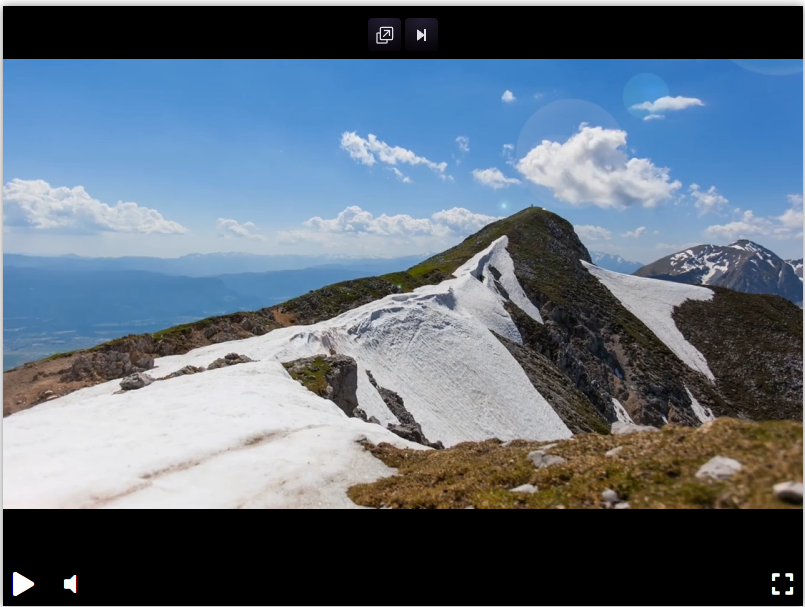
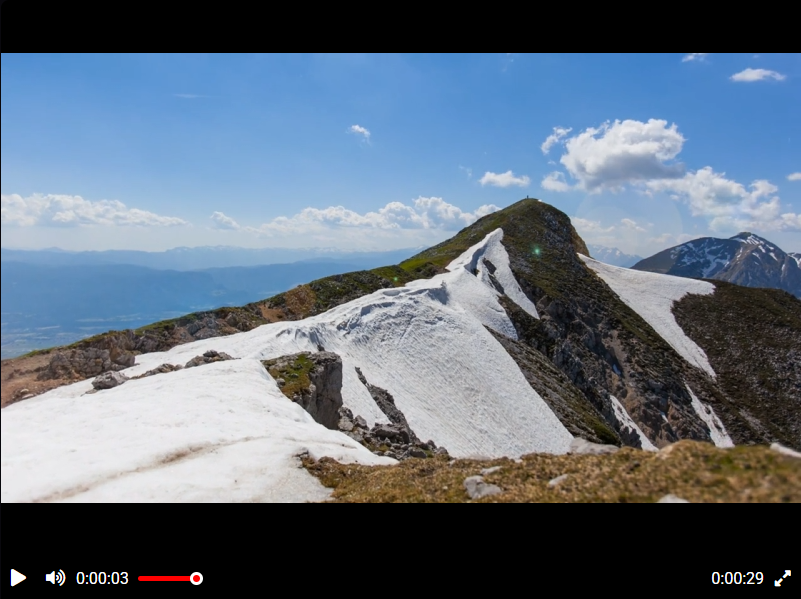
fix: remove margin-left bug, move styles to player.css, refactor progress bar

diff --git a/index.html b/index.html
@@ -3,195 +3,51 @@
 <head>
     <meta charset="UTF-8">
     <title>Видео плеер</title>
-
     <link rel="stylesheet" href="https://use.fontawesome.com/releases/v5.15.4/css/all.css">
-
     <link rel="icon" href="favicon.ico">
     <link rel="preconnect" href="https://fonts.googleapis.com">
     <link rel="preconnect" href="https://fonts.gstatic.com" crossorigin>
-
     <link href="https://fonts.googleapis.com/css2?family=Roboto:wght@400&display=swap" rel="stylesheet">
-
-<style>
-body {
-    margin: 0;
-}
-
-.player-container {
-    width: 800px;
-    height: 600px;
-
-    display: flex;
-    flex-direction: column;
-
-    box-shadow: 0 0 10px rgba(0, 0, 0, 0.5);
-}
-
-.video-container {
-    flex-grow: 1;
-}
-
-.controls {
-    background: black;
-
-    flex-shrink: 0;
-
-    display: flex;
-    align-items: center;
-
-    height: 44px;
-
-    padding-left: 0px;
-    padding-right: 0px;
-}
-
-.player-button {
-    border: none;
-    cursor: pointer;
-
-    background-color: transparent;
-
-    width: 35px;
-    height: 32px;
-
-    padding: 0;
-}
-
-.player-icon {
-    color: white;
-
-    font-size: 17px;
-}
-
-.spacer {
-    flex-grow: 1;
-}
-
-.js-mute-button {
-    margin-left: 2px;
-}
-
-.js-fullscreen-button {
-    margin-right: 1px;
-}
-
-.js-fullscreen-button .player-icon {
-    font-size: 18px;
-    position: relative;
-    top: 0px;
-}
-
-.playback-time {
-    color: white;
-
-    font-family: 'Roboto', sans-serif;
-    font-weight: 400;
-    font-size: 16px;
-}
-
-.js-progress {
-    position: relative;
-    flex-grow: 596;
-    height: 5px;
-    background: black;
-
-    border-radius: 2px;
-
-    margin: 0 9px;
-    display: flex;
-    align-items: center;
-}
-
-.js-progress-slider {
-    height: 100%;
-    width: 0%;
-
-    background: red;
-
-    border-radius: 10px;
-}
-
-.js-current-time {
-    margin-left: 3px;
-}
-
-.dot {
-    height: 13px;
-    width: 13px;
-
-    background-color: red;
-    border-radius: 50%;
-    border: 3px solid #ffffff;
-
-    box-sizing: border-box;
-
-    position: relative;
-
-    margin-left: -6px;
-
-    transform: translateY(0);
-
-    top: 0;
-    opacity: 0;
-    transition-property: opacity;
-    transition-duration: 300ms;
-    transition-timing-function: ease-in-out;
-}
-
-.controls:hover .dot {
-    opacity: 1;
-}
-</style>
+    <link rel="stylesheet" href="player.css">
 </head>
 <body>
-
 <div id="player" class="player-container">
     <div class="js-video-container video-container"></div>
+    <div class="controls">
+        <button class="js-play-button player-button">
+            <i class="fas fa-play"></i>
+        </button>
+        <button class="js-pause-button player-button" hidden>
+            <i class="fas fa-pause"></i>
+        </button>
+        <button class="js-volume-button player-button" hidden>
+            <i class="fas fa-volume-off"></i>
+        </button>
+        <button class="js-mute-button player-button">
+            <i class="fas fa-volume-up"></i>
+        </button>
 
-<div class="controls">
-    <button class="js-play-button player-button">
-        <i class="fas fa-play player-icon"></i>
-    </button>
+        <div class="video-player__progress-bar">
+            <div class="playback-time js-current-time">0:00</div>
+            <div class="js-progress">
+                <div class="js-progress-slider"></div>
+                <span class="dot"></span>
+            </div>
+            <div class="playback-time js-duration">0:00</div>
+        </div>
 
-    <button class="js-pause-button player-button" hidden>
-        <i class="fas fa-pause player-icon"></i>
-    </button>
-
-    <button class="js-volume-button player-button" hidden>
-        <i class="fas fa-volume-off player-icon"></i>
-    </button>
-
-    <button class="js-mute-button player-button">
-        <i class="fas fa-volume-up player-icon"></i>
-    </button>
-
-    <div class="playback-time js-current-time">0:00</div>
-
-    <div class="js-progress">
-        <div class="js-progress-slider"></div>
-        <span class="dot"></span>
+        <button class="js-fullscreen-button player-button">
+            <i class="fas fa-expand-alt"></i>
+        </button>
     </div>
-
-    <div class="playback-time js-duration">0:00</div>
-
-    <div class="spacer"></div>
-
-    <button class="js-fullscreen-button player-button">
-        <i class="fas fa-expand-alt player-icon"></i>
-    </button>
-
 </div>
-</div>
-
 <script src="https://code.jquery.com/jquery-3.4.1.min.js"></script>
 <script src="https://unpkg.com/playable@2.10.3/dist/statics/playable.bundle.min.js"></script>
 <script src="player.js"></script>
-
 <script>
     createPlayer({
         elementId: 'player'
     });
 </script>
-
 </body>
 </html>

diff --git a/player.css b/player.css
@@ -1,0 +1,94 @@
+body {
+    margin: 0;
+}
+
+.player-container {
+    width: 800px;
+    height: 600px;
+    display: flex;
+    flex-direction: column;
+    box-shadow: 0 0 10px rgba(0, 0, 0, 0.5);
+}
+
+.video-container {
+    flex-grow: 1;
+}
+
+.controls {
+    background: black;
+    flex-shrink: 0;
+    display: flex;
+    align-items: center;
+    height: 44px;
+    padding-left: 0;
+    padding-right: 0;
+    column-gap: 5px;
+}
+
+.player-button {
+    border: none;
+    cursor: pointer;
+    background-color: transparent;
+    width: 35px;
+    height: 32px;
+    padding: 0;
+    color: white;
+    font-size: 17px;
+}
+
+
+.js-fullscreen-button {
+    margin-right: 1px;
+    font-size: 18px;
+}
+
+.video-player__progress-bar {
+    flex-grow: 1;
+    display: flex;
+    align-items: center;
+    column-gap: 9px;
+}
+
+.playback-time {
+    color: white;
+    font-family: 'Roboto', sans-serif;
+    font-weight: 400;
+    font-size: 16px;
+}
+
+.js-progress {
+    position: relative;
+    flex-grow: 1;
+    height: 5px;
+    background: black;
+    border-radius: 2px;
+    display: flex;
+    align-items: center;
+}
+
+.js-progress-slider {
+    height: 100%;
+    width: 0%;
+    background: red;
+    border-radius: 10px;
+}
+
+.dot {
+    height: 13px;
+    width: 13px;
+    background-color: red;
+    border-radius: 50%;
+    border: 3px solid #ffffff;
+    box-sizing: border-box;
+    position: relative;
+    margin-left: -6px;
+    top: 0;
+    opacity: 0;
+    transition-property: opacity;
+    transition-duration: 300ms;
+    transition-timing-function: ease-in-out;
+}
+
+.controls:hover .dot {
+    opacity: 1;
+}
